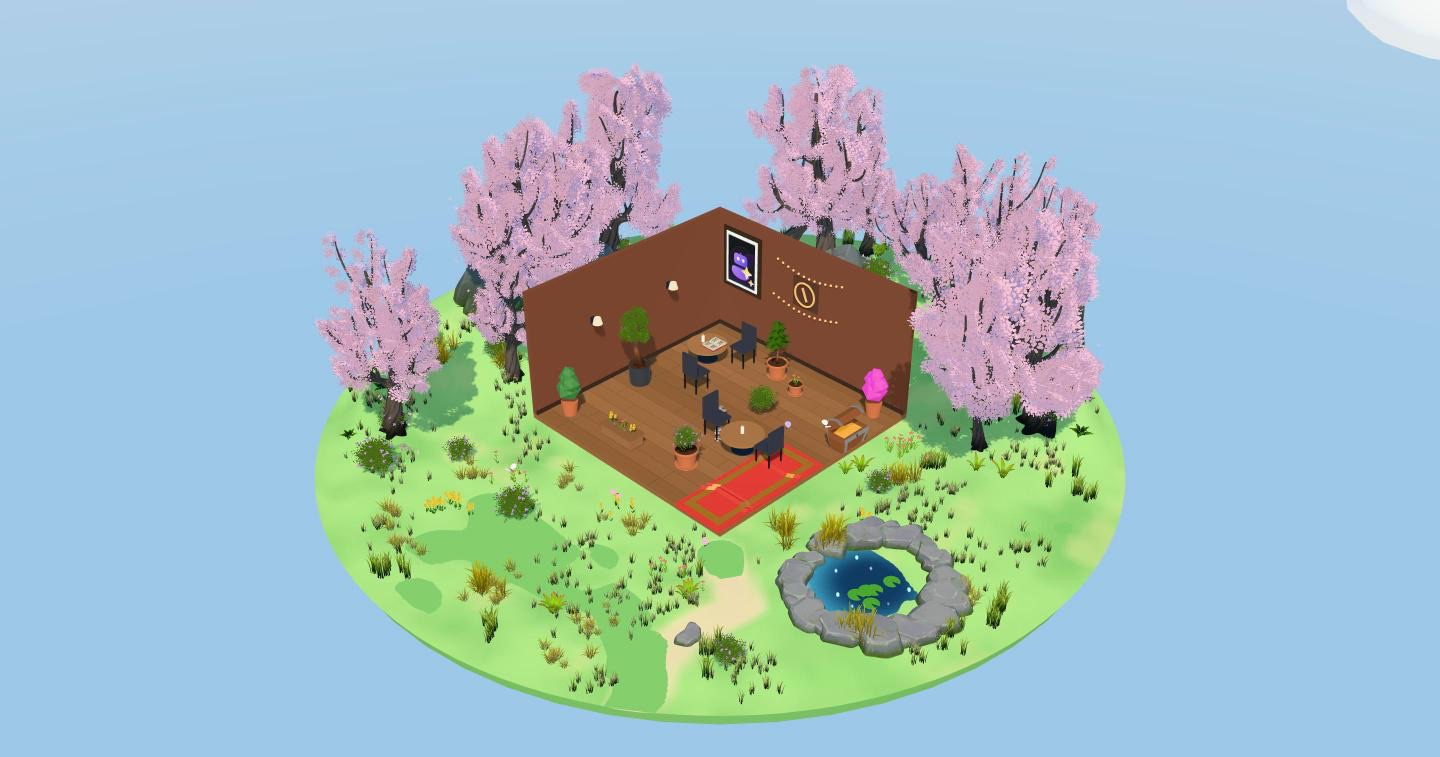
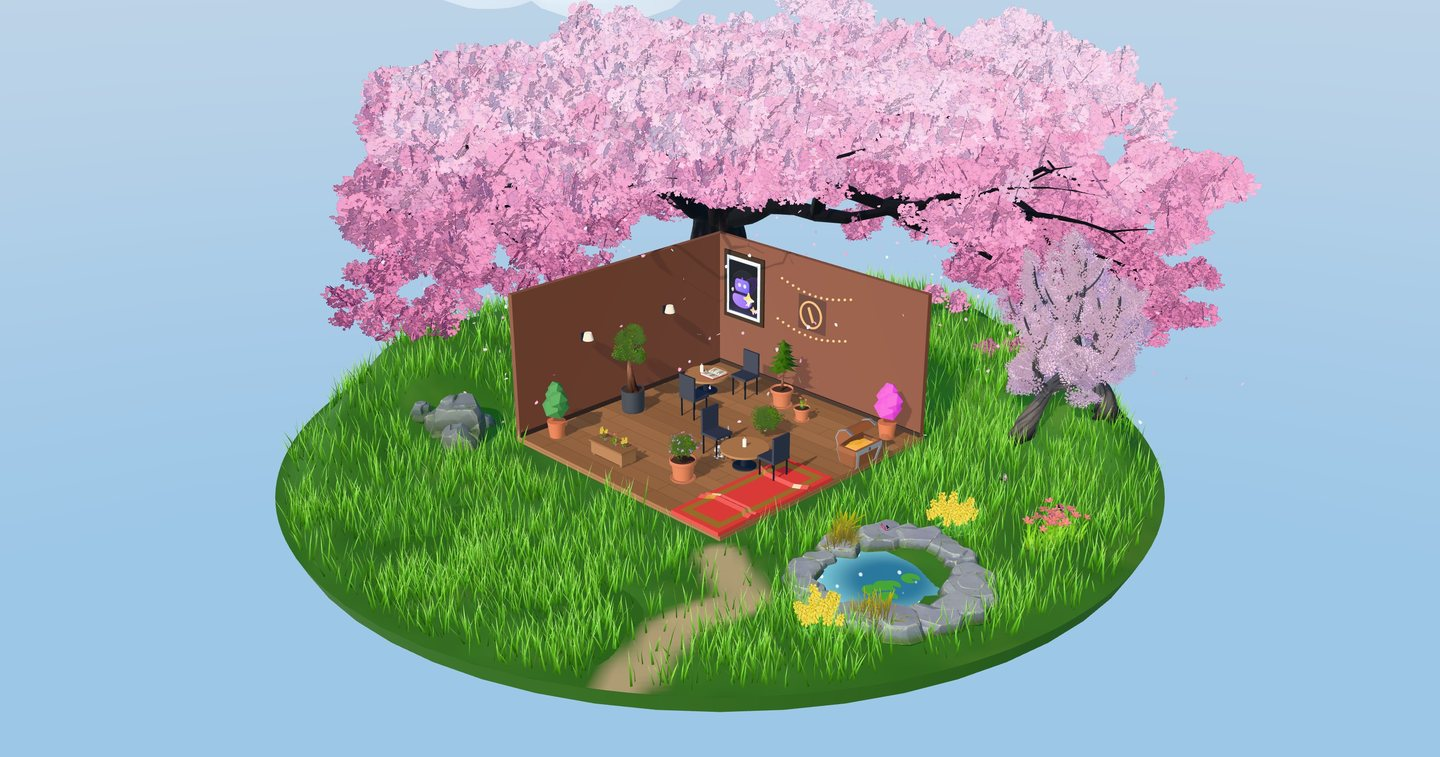
Landing: new 3D pictures, a staged hero entrance and reveals on scroll
- The five landing pictures (city at night, sakura, sky island, mars,
  winter; also used on /trends) recaptured from the current lands, from the
  same low view as the land thumbnails
- Hero: label, heading, lead, claim box, note and the worlds showcase rise
  in one after another (CSS, plays from the server-rendered page)
- v-reveal: section headings, cards and rows below the fold rise into place
  (fade, slide, unblur) as they scroll in, staggered along each row; things
  already on screen at load stay put; none of it for reduced motion

Claude-Session: https://claude.ai/code/session_017FHiKSrQAENiiWCin1F14t

diff --git a/app/components/marketing/MkLanding.vue b/app/components/marketing/MkLanding.vue
@@ -7,31 +7,31 @@
         <div class="grid gap-10 md:grid-cols-[1.45fr_1fr] md:items-end">
           <div>
             <!-- The mark, alive (the room builds itself, the pearl bounces), in a small label -->
-            <p class="mb-6 inline-flex items-center gap-2.5 rounded-full bg-paper/70 py-1.5 pl-1.5 pr-4 text-sm text-ink-soft ring-1 ring-line backdrop-blur">
+            <p class="mk-rise mb-6 inline-flex items-center gap-2.5 rounded-full bg-paper/70 py-1.5 pl-1.5 pr-4 text-sm text-ink-soft ring-1 ring-line backdrop-blur">
               <span aria-hidden="true" class="flex"><AppLoader :size="26" /></span>
               {{ c.hero.eyebrow }}
             </p>
-            <h1 class="mk-display text-[44px] sm:text-6xl md:text-[64px]">
+            <h1 class="mk-rise mk-display text-[44px] sm:text-6xl md:text-[64px]" style="--rise-delay: 90ms">
               {{ c.hero.line1 }}<br>
               <span class="text-ink-muted">{{ heroLine2[0] }}<span class="mk-accent whitespace-nowrap">{{ c.hero.accent }}</span>{{ heroLine2[1] }}</span>
             </h1>
           </div>
           <div class="md:pb-2">
-            <p class="text-lg leading-relaxed text-ink-soft">
+            <p class="mk-rise text-lg leading-relaxed text-ink-soft" style="--rise-delay: 200ms">
               {{ c.hero.lead }}
             </p>
           </div>
         </div>
-        <div class="mt-10 flex flex-col gap-4 sm:flex-row sm:items-center">
+        <div class="mk-rise mt-10 flex flex-col gap-4 sm:flex-row sm:items-center" style="--rise-delay: 300ms">
           <MarketingMkClaimForm />
           <MarketingMkButton to="#3d" variant="outline" size="lg" class="sm:ml-1">{{ c.hero.explore }}</MarketingMkButton>
         </div>
-        <p class="mt-4 text-sm text-ink-faint">{{ c.hero.note }}</p>
+        <p class="mk-rise mt-4 text-sm text-ink-faint" style="--rise-delay: 380ms">{{ c.hero.note }}</p>
       </div>
 
       <!-- Showcase: switch between worlds -->
       <div class="px-5 pb-16 sm:px-8 md:pb-24">
-        <div class="rounded-2xl bg-sand p-1.5">
+        <div class="mk-rise rounded-2xl bg-sand p-1.5" style="--rise-delay: 480ms">
           <div class="grid grid-cols-2 gap-1 sm:grid-cols-4" role="tablist" :aria-label="c.hero.worldsLabel">
             <button
               v-for="(world, i) in showcase"
@@ -83,7 +83,7 @@
         <MarketingMkButton to="/trends" variant="outline" size="sm" trailing-icon="i-lucide-arrow-right">{{ c.audiences.trending }}</MarketingMkButton>
       </div>
       <div class="grid grid-cols-2 gap-px border-t border-line bg-line sm:grid-cols-3 lg:grid-cols-6">
-        <div v-for="audience in audiences" :key="audience.label" class="flex flex-col items-center justify-center gap-2 bg-paper py-8 text-ink-muted">
+        <div v-for="(audience, i) in audiences" :key="audience.label" v-reveal="i * 60" class="flex flex-col items-center justify-center gap-2 bg-paper py-8 text-ink-muted">
           <UIcon :name="audience.icon" class="size-5" />
           <span class="text-sm">{{ audience.label }}</span>
         </div>
@@ -93,7 +93,7 @@
     <!-- ============ TWO WAYS ============ -->
     <MarketingMkSection :title="c.twoWays.title" :description="c.twoWays.description">
       <div class="grid gap-4 md:grid-cols-2">
-        <div class="flex flex-col rounded-2xl bg-sand p-6 md:p-8">
+        <div v-reveal class="flex flex-col rounded-2xl bg-sand p-6 md:p-8">
           <p class="text-sm font-medium text-ink">{{ c.twoWays.site }}</p>
           <p class="mt-1 text-sm text-ink-muted">{{ c.twoWays.siteText }}</p>
           <div class="mt-8 flex flex-1 items-end justify-center">
@@ -104,7 +104,7 @@
             </div>
           </div>
         </div>
-        <div class="flex flex-col rounded-2xl bg-sand p-6 md:p-8">
+        <div v-reveal="120" class="flex flex-col rounded-2xl bg-sand p-6 md:p-8">
           <p class="text-sm font-medium text-ink">{{ c.twoWays.world }}</p>
           <p class="mt-1 text-sm text-ink-muted">{{ c.twoWays.worldText }}</p>
           <div class="mt-8 flex flex-1 items-end">
@@ -122,7 +122,7 @@
       :description="c.templates.description"
     >
       <div class="grid grid-cols-2 gap-x-4 gap-y-8 md:grid-cols-4">
-        <article v-for="template in templates" :key="template.id" class="group">
+        <article v-for="(template, i) in templates" :key="template.id" v-reveal="(i % 4) * 90" class="group">
           <div class="relative aspect-[3/4] overflow-hidden rounded-2xl bg-sand">
             <div class="absolute inset-x-4 top-4 bottom-0 overflow-hidden rounded-t-xl ring-1 ring-line transition-transform duration-500 group-hover:-translate-y-1">
               <SiteTemplateThumbnail :template="template" :scale="0.38" />
@@ -140,7 +140,7 @@
     <!-- ============ 3D ============ -->
     <MarketingMkSection id="3d" :padded="false">
       <div class="grid md:grid-cols-[1fr_1.2fr]">
-        <div class="px-5 py-16 sm:px-8 md:py-24">
+        <div v-reveal class="px-5 py-16 sm:px-8 md:py-24">
           <p class="mk-eyebrow mb-4">{{ c.worlds.eyebrow }}</p>
           <h2 class="mk-display text-3xl sm:text-4xl md:text-[44px]">{{ c.worlds.title }}</h2>
           <p class="mt-4 max-w-md text-base leading-relaxed text-ink-muted md:text-lg">
@@ -149,7 +149,7 @@
           <MarketingMkButton to="/login" class="mt-8" trailing-icon="i-lucide-arrow-right">{{ c.worlds.cta }}</MarketingMkButton>
         </div>
         <div class="grid grid-cols-2 gap-px border-t border-line bg-line md:border-l md:border-t-0">
-          <div v-for="feature in worldFeatures" :key="feature.title" class="bg-paper p-6 md:p-8">
+          <div v-for="(feature, i) in worldFeatures" :key="feature.title" v-reveal="i * 90" class="bg-paper p-6 md:p-8">
             <UIcon :name="feature.icon" class="size-5 text-ink" />
             <p class="mt-4 text-sm font-medium text-ink">{{ feature.title }}</p>
             <p class="mt-1 text-sm leading-relaxed text-ink-muted">{{ feature.text }}</p>
@@ -161,7 +161,7 @@
     <!-- ============ TRENDS ============ -->
     <MarketingMkSection id="trends" :eyebrow="c.trends.eyebrow" :title="c.trends.title" :description="c.trends.description">
       <div class="grid gap-x-5 gap-y-10 sm:grid-cols-2 lg:grid-cols-3">
-        <MarketingMkTrendCard v-for="trend in trends" :key="trend.id" :trend="trend" />
+        <MarketingMkTrendCard v-for="(trend, i) in trends" :key="trend.id" v-reveal="(i % 3) * 100" :trend="trend" />
       </div>
       <div class="mt-10">
         <MarketingMkButton to="/trends" variant="outline" trailing-icon="i-lucide-arrow-right">{{ c.trends.all }}</MarketingMkButton>
@@ -171,7 +171,7 @@
     <!-- ============ HOW IT WORKS ============ -->
     <MarketingMkSection :title="c.steps.title">
       <ol class="grid gap-4 md:grid-cols-3">
-        <li v-for="(step, i) in c.steps.items" :key="step.title" class="rounded-2xl bg-sand p-6 md:p-8">
+        <li v-for="(step, i) in c.steps.items" :key="step.title" v-reveal="i * 110" class="rounded-2xl bg-sand p-6 md:p-8">
           <span class="mk-display text-4xl text-ink-faint">0{{ i + 1 }}</span>
           <p class="mt-6 text-base font-medium text-ink">{{ step.title }}</p>
           <p class="mt-1 text-sm leading-relaxed text-ink-muted">{{ step.text }}</p>
@@ -182,7 +182,7 @@
     <!-- ============ FAQ ============ -->
     <MarketingMkSection id="faq" :title="c.faq.title">
       <div class="divide-y divide-line border-y border-line">
-        <details v-for="item in c.faq.items" :key="item.q" class="group py-5">
+        <details v-for="(item, i) in c.faq.items" :key="item.q" v-reveal="i * 50" class="group py-5">
           <summary class="flex cursor-pointer list-none items-center justify-between gap-6 text-[15px] text-ink [&::-webkit-details-marker]:hidden">
             {{ item.q }}
             <UIcon name="i-lucide-plus" class="size-4 shrink-0 text-ink-muted transition-transform group-open:rotate-45" />
@@ -202,7 +202,7 @@
           <span class="absolute right-48 top-14"><MarketingMkOrb palette="lagoon" :size="48" /></span>
           <span class="absolute bottom-14 right-12"><MarketingMkOrb palette="night" :size="130" /></span>
         </div>
-        <div class="relative">
+        <div v-reveal class="relative">
           <h2 class="mk-display mx-auto max-w-2xl text-4xl sm:text-5xl">{{ c.cta.title }}</h2>
           <p class="mx-auto mt-4 max-w-md text-ink-muted">{{ c.cta.text }}</p>
           <div class="mt-8 flex justify-center">

diff --git a/app/plugins/reveal.ts b/app/plugins/reveal.ts
@@ -1,0 +1,29 @@
+// v-reveal: an element below the fold rises into place (fade, slide up,
+// unblur) as it scrolls into view; v-reveal="120" delays it 120 ms, for
+// staggering a row. What's already on screen when the page loads is left as
+// it is (no flash), and nothing moves for people who prefer reduced motion.
+// See .mk-reveal in main.css.
+export default defineNuxtPlugin((nuxtApp) => {
+  let observer: IntersectionObserver | null = null
+  const watch = (el: Element) => {
+    observer ??= new IntersectionObserver((entries) => {
+      for (const entry of entries) {
+        if (!entry.isIntersecting) continue
+        entry.target.classList.add('mk-revealed')
+        observer!.unobserve(entry.target)
+      }
+    }, { rootMargin: '0px 0px -8% 0px' })
+    observer.observe(el)
+  }
+
+  nuxtApp.vueApp.directive<HTMLElement, number | undefined>('reveal', {
+    getSSRProps: () => ({}),
+    mounted(el, binding) {
+      if (window.matchMedia?.('(prefers-reduced-motion: reduce)').matches) return
+      if (el.getBoundingClientRect().top < window.innerHeight) return
+      el.style.setProperty('--reveal-delay', `${binding.value ?? 0}ms`)
+      el.classList.add('mk-reveal')
+      watch(el)
+    },
+  })
+})

diff --git a/app/assets/css/main.css b/app/assets/css/main.css
@@ -426,3 +426,32 @@ sheet, 3D room popups) use these classes:
 .blog-prose pre code { background: none; padding: 0; }
 .blog-prose hr { border: 0; border-top: 1px solid currentColor; opacity: 0.15; margin: 2em 0; }
 .blog-prose figure img { width: 100%; border-radius: 16px; }
+
+/* Landing reveals (plugins/reveal.ts): rise into place as they scroll in */
+.mk-reveal {
+  opacity: 0;
+  transform: translateY(28px);
+  filter: blur(6px);
+  transition:
+    opacity 0.9s cubic-bezier(0.16, 1, 0.3, 1) var(--reveal-delay, 0ms),
+    transform 0.9s cubic-bezier(0.16, 1, 0.3, 1) var(--reveal-delay, 0ms),
+    filter 0.9s cubic-bezier(0.16, 1, 0.3, 1) var(--reveal-delay, 0ms);
+}
+.mk-reveal.mk-revealed {
+  opacity: 1;
+  transform: none;
+  filter: none;
+}
+
+/* The hero's entrance: plays from the server-rendered page, no script needed */
+.mk-rise {
+  animation: mk-rise 1s cubic-bezier(0.16, 1, 0.3, 1) both;
+  animation-delay: var(--rise-delay, 0ms);
+}
+@keyframes mk-rise {
+  from { opacity: 0; transform: translateY(22px); filter: blur(8px); }
+  to { opacity: 1; transform: none; filter: none; }
+}
+@media (prefers-reduced-motion: reduce) {
+  .mk-rise { animation: none; }
+}

diff --git a/app/components/marketing/MkSection.vue b/app/components/marketing/MkSection.vue
@@ -7,7 +7,7 @@
         <span class="absolute -right-[3px] -top-[3px] hidden size-[5px] rounded-full bg-ink-faint/60 xl:block" aria-hidden="true" />
       </template>
       <div :class="padded && 'px-5 py-16 sm:px-8 md:py-24'">
-        <header v-if="title || eyebrow" class="mb-10 max-w-2xl md:mb-14" :class="center && 'mx-auto text-center'">
+        <header v-if="title || eyebrow" v-reveal class="mb-10 max-w-2xl md:mb-14" :class="center && 'mx-auto text-center'">
           <p v-if="eyebrow" class="mk-eyebrow mb-4">{{ eyebrow }}</p>
           <h2 v-if="title" class="mk-display text-3xl sm:text-4xl md:text-[44px]">{{ title }}</h2>
           <p v-if="description" class="mt-4 text-base leading-relaxed text-ink-muted md:text-lg">{{ description }}</p>
